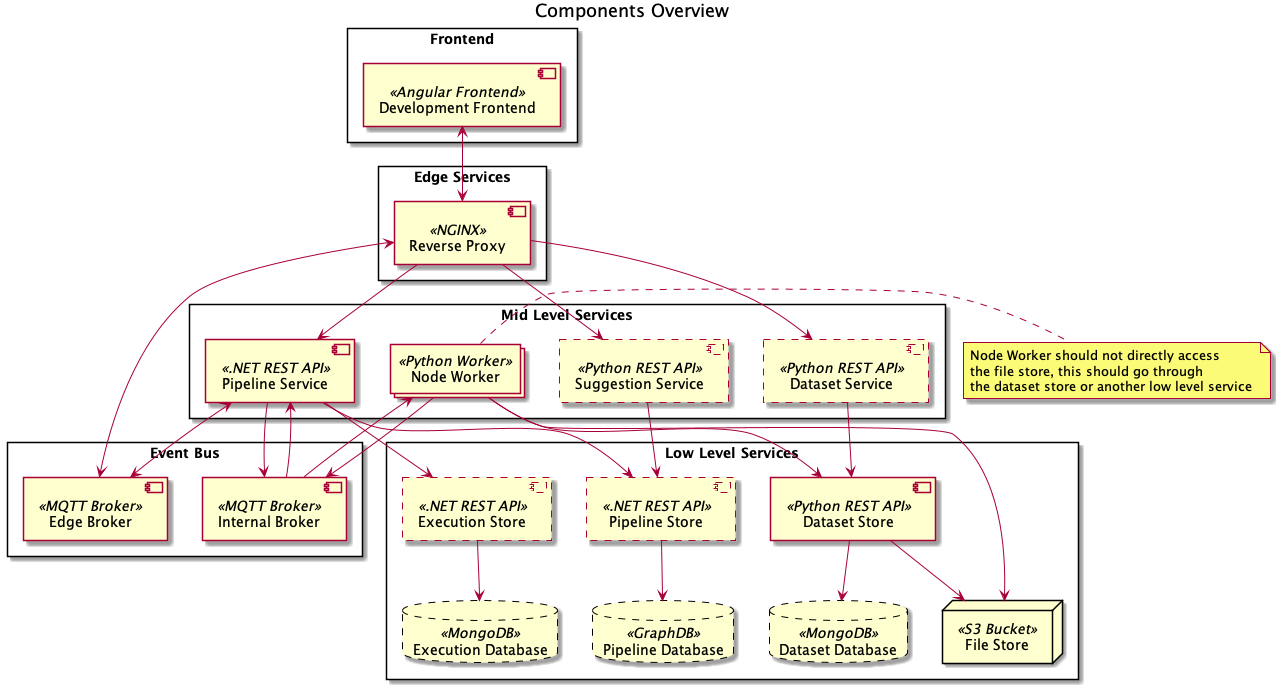
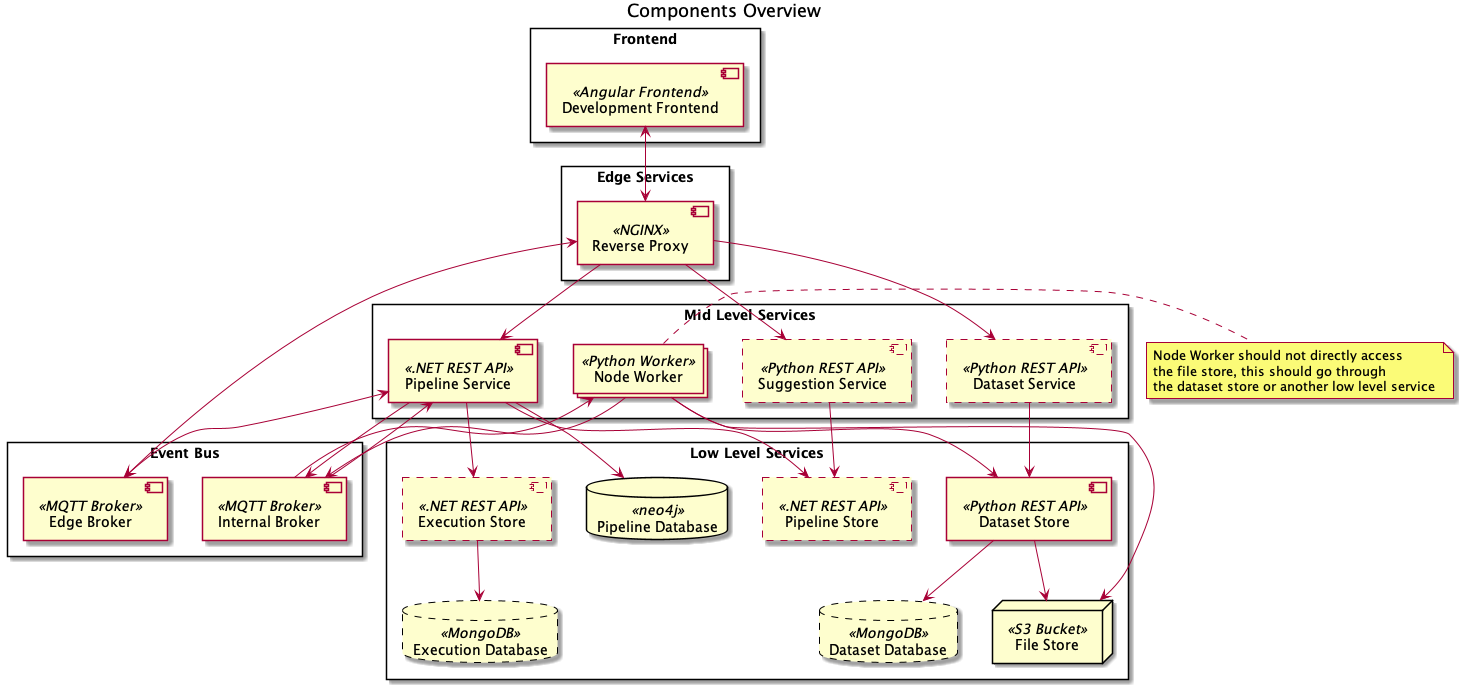
feat(persistence): add neo4j database to dev environment and healthcheck for connection to db
Refs: PH-206

Changed region(s): [[0.0, 0.0, 1.0, 1.0], [0.9781, 0.487, 1.0, 0.5174]]

diff --git a/PipelineService/Startup.cs b/PipelineService/Startup.cs
@@ -1,3 +1,4 @@
+using System;
 using Hangfire;
 using Hangfire.LiteDB;
 using Microsoft.AspNetCore.Builder;
@@ -6,9 +7,13 @@ using Microsoft.Extensions.Configuration;
 using Microsoft.Extensions.DependencyInjection;
 using Microsoft.Extensions.Hosting;
 using Microsoft.OpenApi.Models;
+using Neo4jClient;
 using PipelineService.Dao;
 using PipelineService.Dao.Impl;
+using PipelineService.Extensions;
+using PipelineService.Models;
 using PipelineService.Services;
+using PipelineService.Services.HealthChecks;
 using PipelineService.Services.Impl;
 
 namespace PipelineService
@@ -44,6 +49,16 @@ namespace PipelineService
 			});
 			services.AddHangfireServer();
 
+			// configuring Neo4j connection
+			services.AddSingleton<IGraphClient>(new GraphClient(
+				Configuration.GetValueOrThrow<Uri>("NeoServerConfiguration:RootUri"),
+				Configuration.GetValueOrThrow<string>("NeoServerConfiguration:Username"),
+				Configuration.GetValueOrThrow<string>("NeoServerConfiguration:Password")
+			));
+
+			services.AddNeo4jAnnotations<PipelineContext>();
+
+
 			// Registering singleton services
 			services.AddSingleton<EventBusService>();
 			services.AddSingleton<EdgeEventBusService>();
@@ -62,7 +77,7 @@ namespace PipelineService
 			services.AddHostedService<HostedSubscriptionService>();
 
 			// TODO: Add health checks to required services: https://github.com/Xabaril/AspNetCore.Diagnostics.HealthChecks
-			services.AddHealthChecks();
+			services.AddHealthChecks().AddCheck<Neo4JHealthCheck>("neo4j_health_check");
 
 			services.AddControllers();
 			services.AddSwaggerGen(c =>

diff --git a/PipelineService/Models/PipelineContext.cs b/PipelineService/Models/PipelineContext.cs
@@ -1,0 +1,43 @@
+using Neo4jClient;
+using Neo4jClient.DataAnnotations;
+using Neo4jClient.DataAnnotations.Serialization;
+
+namespace PipelineService.Models
+{
+	public class PipelineContext : AnnotationsContext
+	{
+		public virtual EntitySet<Pipeline.Pipeline> Pipelines { get; set; }
+		public virtual EntitySet<Pipeline.Node> Nodes { get; set; }
+
+		public PipelineContext(IGraphClient graphClient) : base(graphClient)
+		{
+		}
+
+		public PipelineContext(IGraphClient graphClient, EntityService entityService) : base(graphClient, entityService)
+		{
+		}
+
+		public PipelineContext(IGraphClient graphClient, EntityResolver resolver) : base(graphClient, resolver)
+		{
+		}
+
+		public PipelineContext(IGraphClient graphClient, EntityResolver resolver, EntityService entityService) : base(
+			graphClient, resolver, entityService)
+		{
+		}
+
+		public PipelineContext(IGraphClient graphClient, EntityConverter converter) : base(graphClient, converter)
+		{
+		}
+
+		public PipelineContext(IGraphClient graphClient, EntityConverter converter, EntityService entityService) : base(
+			graphClient, converter, entityService)
+		{
+		}
+
+		protected PipelineContext(IGraphClient graphClient, EntityResolver resolver, EntityConverter converter,
+			EntityService entityService) : base(graphClient, resolver, converter, entityService)
+		{
+		}
+	}
+}

diff --git a/PipelineService/Services/HealthChecks/Neo4jHealthCheck.cs b/PipelineService/Services/HealthChecks/Neo4jHealthCheck.cs
@@ -1,0 +1,52 @@
+using System;
+using System.Threading;
+using System.Threading.Tasks;
+using Microsoft.Extensions.Diagnostics.HealthChecks;
+using Microsoft.Extensions.Logging;
+using Neo4jClient;
+
+namespace PipelineService.Services.HealthChecks
+{
+	public class Neo4JHealthCheck : IHealthCheck
+	{
+		private readonly IGraphClient _graphClient;
+		private readonly ILogger<Neo4JHealthCheck> _logger;
+
+		public Neo4JHealthCheck(IGraphClient graphClient, ILogger<Neo4JHealthCheck> logger)
+		{
+			_graphClient = graphClient;
+			_logger = logger;
+		}
+
+		public async Task<HealthCheckResult> CheckHealthAsync(HealthCheckContext context,
+			CancellationToken cancellationToken = new())
+		{
+			if (!_graphClient.IsConnected)
+			{
+				_logger.LogDebug("Connecting to neo4j for health check");
+				await _graphClient.ConnectAsync();
+			}
+
+			try
+			{
+				// TODO change to pipeline
+				var query = _graphClient.Cypher
+					.Match("(c:Company)")
+					.Return(c => c.As<string>())
+					.Limit(1);
+
+				var text = query.Query.DebugQueryText;
+
+				_logger.LogDebug("Sending health check query to neo4j: {HealthCheckQuery}", text);
+
+				await query.ResultsAsync;
+
+				return HealthCheckResult.Healthy();
+			}
+			catch (Exception e)
+			{
+				return HealthCheckResult.Unhealthy(e.Message);
+			}
+		}
+	}
+}

diff --git a/PipelineService/Dao/IPipelinesDao.cs b/PipelineService/Dao/IPipelinesDao.cs
@@ -12,7 +12,7 @@ namespace PipelineService.Dao
         /// <summary>
         /// Creates a default pipeline and stores it.
         /// </summary>
-        /// <param name="id">The pipeline's id the new pipeline will be created withh</param>
+        /// <param name="id">The pipeline's id the new pipeline will be created with</param>
         /// <returns>The default pipeline.</returns>
         public Task<Pipeline> Create(Guid id);
 

diff --git a/PipelineService/Extensions/IConfigurationExtensions.cs b/PipelineService/Extensions/IConfigurationExtensions.cs
@@ -1,0 +1,14 @@
+using System;
+using Microsoft.Extensions.Configuration;
+
+namespace PipelineService.Extensions
+{
+	public static class IConfigurationExtensions
+	{
+		public static T GetValueOrThrow<T>(this IConfiguration configuration, string key)
+		{
+			return configuration.GetValue<T>(key) ??
+			       throw new InvalidOperationException($"Missing mandatory configuration key '{key}'");
+		}
+	}
+}
